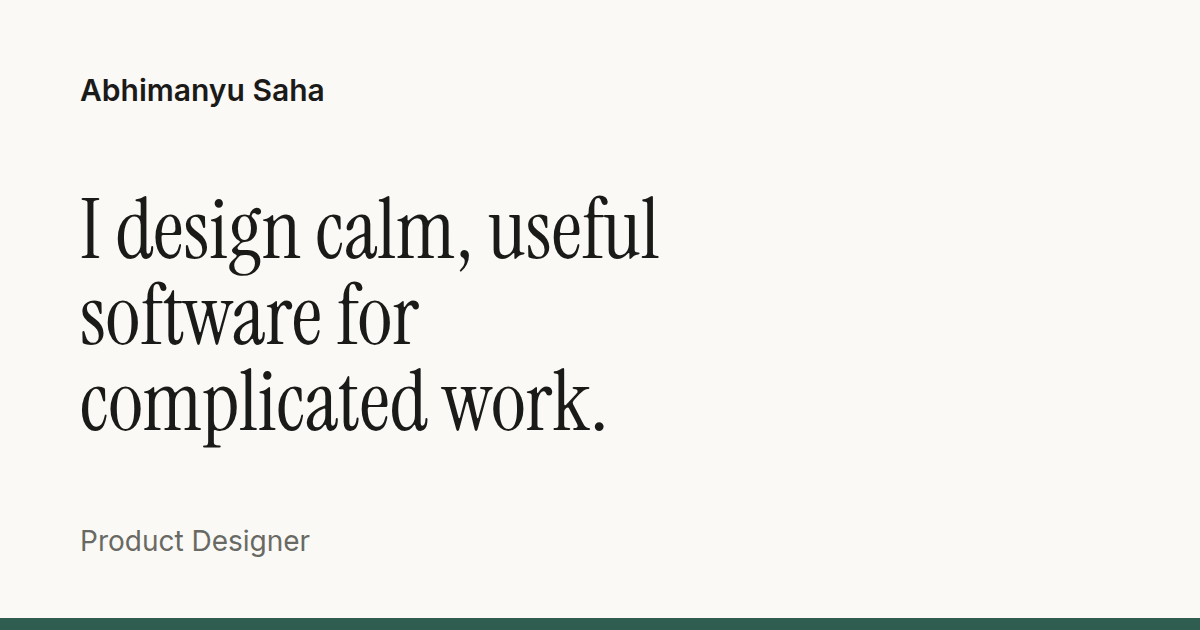
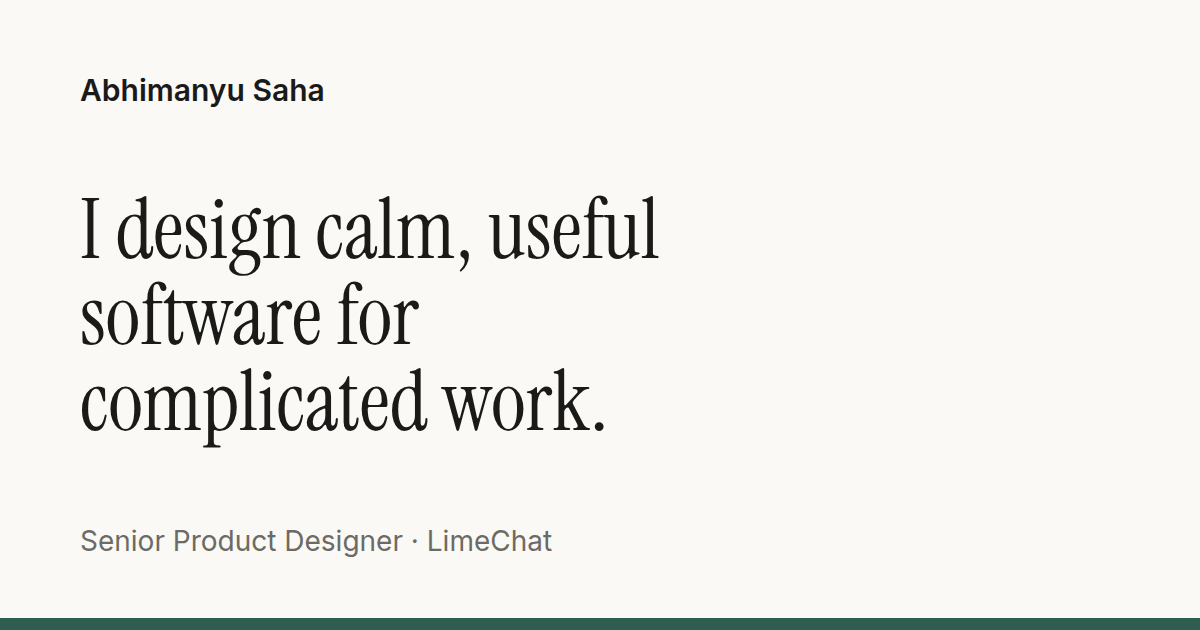
Write About page from resume
Positions, impact at LimeChat, experience, education and recognition.
Role updated to Senior Product Designer; OG image regenerated.

Claude-Session: https://claude.ai/code/session_01N8fy348yJG16pcCZZsxA76

Changed region(s): [[0.0617, 0.8444, 0.4625, 0.8746]]

diff --git a/src/site.ts b/src/site.ts
@@ -1,7 +1,9 @@
 // Edit this file to change your name, bio and links everywhere on the site.
 export const SITE = {
   name: 'Abhimanyu Saha',
-  role: 'Product Designer',
+  role: 'Senior Product Designer',
+  company: 'LimeChat',
+  location: 'Bengaluru, India',
   tagline: 'I design calm, useful software for complicated work.',
   email: 'abhimanyu.saha1995@gmail.com',
   // Add more as { label, href }, e.g. Dribbble, Behance, Read.cv.
